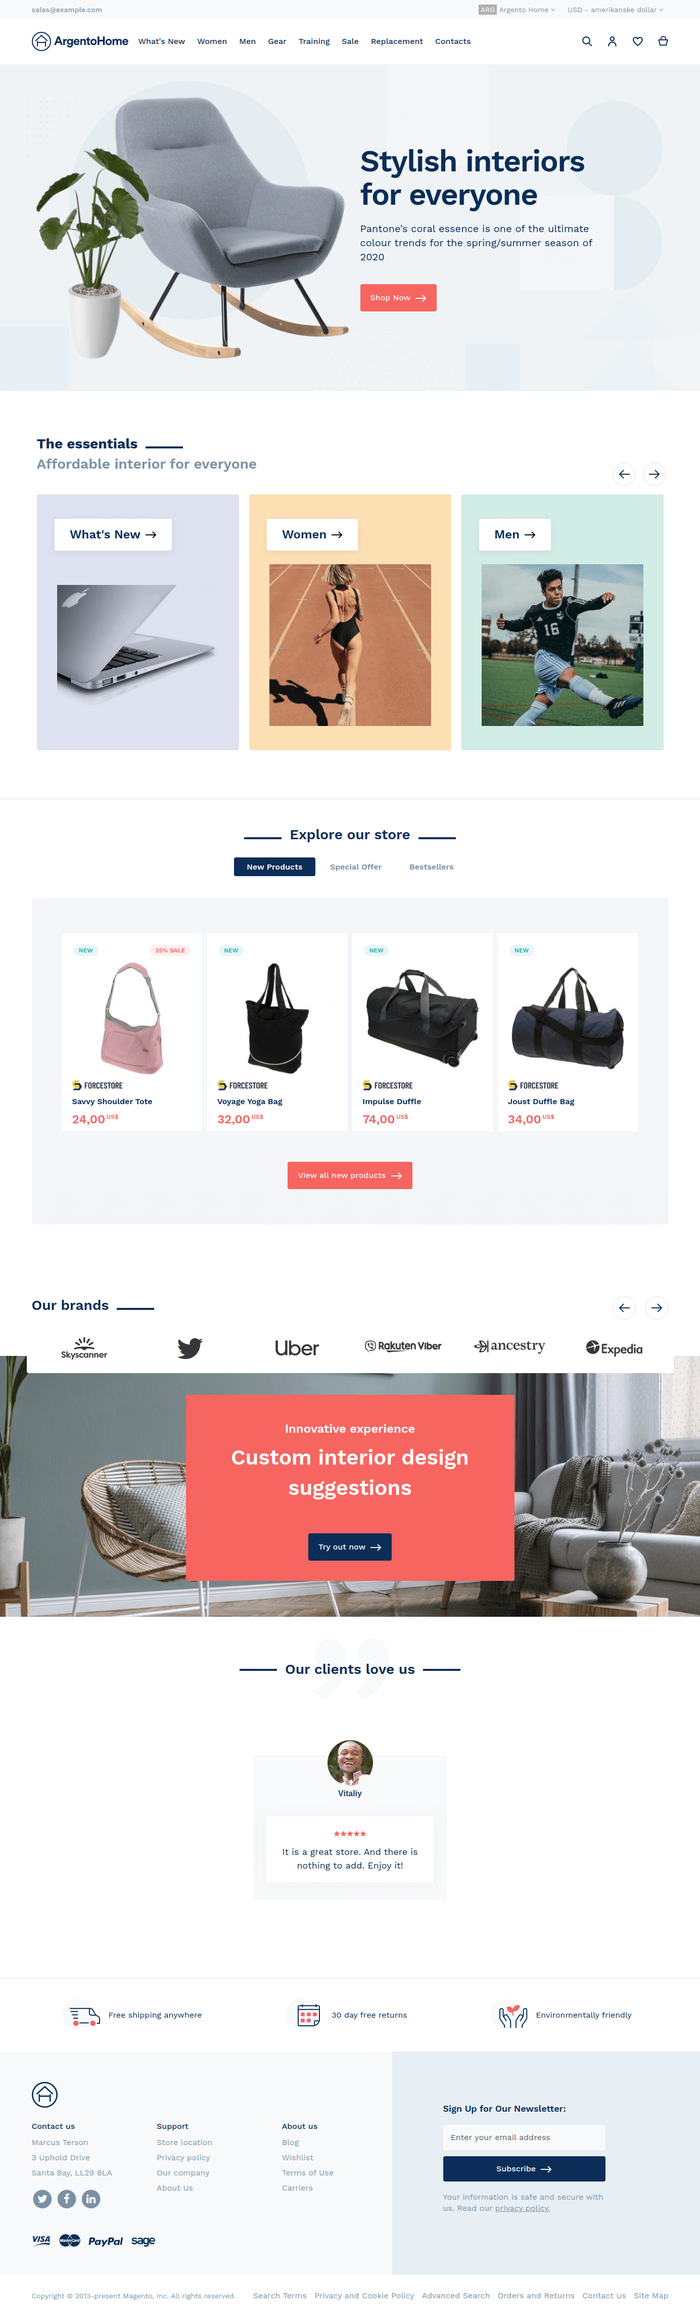
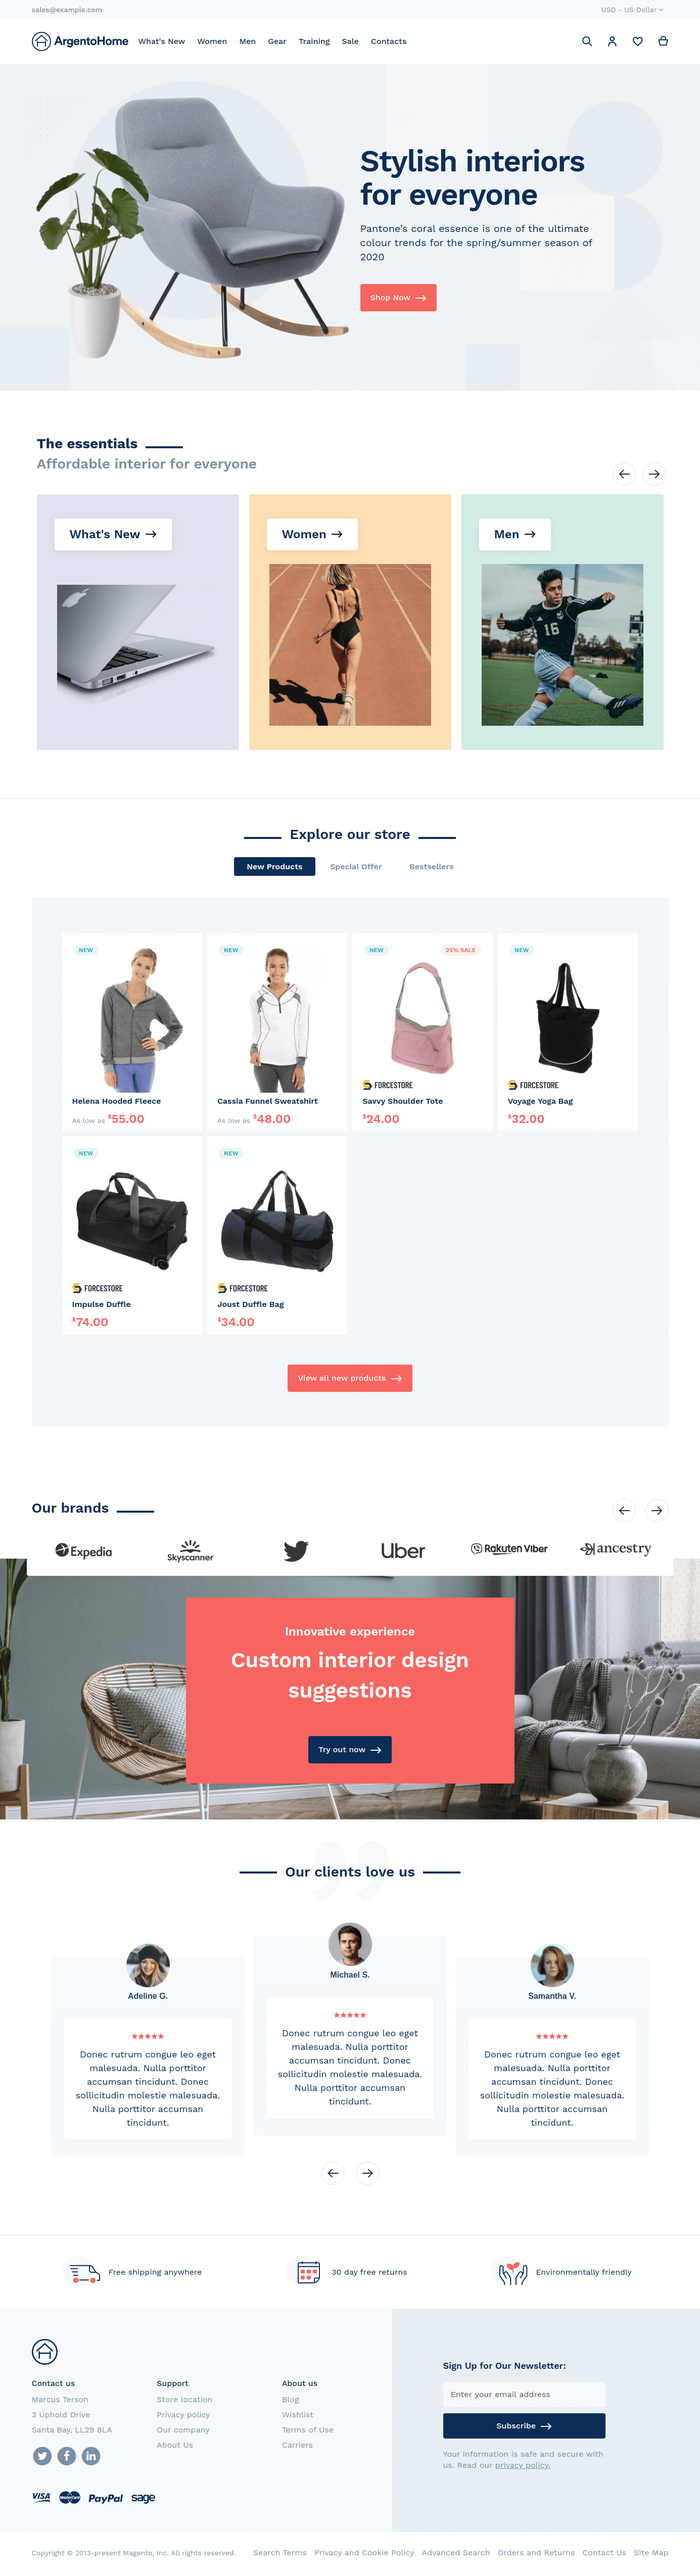
Argento Home - homepage docs

diff --git a/m2/argento/home/page-structure/homepage.md b/m2/argento/home/page-structure/homepage.md
@@ -1,0 +1,240 @@
+---
+layout: default
+title: Argento Home homepage content structure
+description: Argento Home homepage content structure
+category: Argento
+---
+
+# Homepage content
+{:.no_toc}
+
+Argento Home homepage is a standard Magento's CMS page. You can edit it at
+`Magento Admin > Content > Pages` page.
+
+Page title is `Argento Home`. Url - `home`.
+
+We strongly recommend to disable WYSIWYG editor before you start editing homepage content.
+
+Homepage uses a bunch of widgets. They can be widely customized to
+match various layout types and designs.
+
+> 1. Currently homepage build with jumbotrons. Similar approach we use in Argento Flat. Read [Jumbotron customization](/m2/argento/flat/jumbotrons/) article.
+> 2. You can structure elements with [Argento grid system](/m2/argento/customization/grid-system/) classes (col-md-8, col-md-4 etc) also.
+
+Let's split content into separate rows to simplify homepage structure
+understanding.
+
+* TOC
+{:toc}
+
+### Slider
+
+![Easyslide Slider](/images/m2/argento/home/home/slider.png)
+
+Top homepage slider is powered by [Easyslide](/m2/extensions/easyslider/). Get to know with this module and its interfaces so you could customize it in future.
+
+Slider identifier is `argento_home`.
+
+Piece of CMS Page content that adds slider:
+
+```html
+<div class="jumbotron jumbotron-image no-padding">
+    {% raw %}{{widget type="Swissup\EasySlide\Block\Slider" identifier="argento_home"}}{% endraw %}
+</div>
+```
+
+### The Essentials
+
+![The essentials](/images/m2/argento/home/home/the-essentials.png)
+
+Row with "The Essentials" links is a mix of HTML and [Easy Catalog Images](/m2/extensions/easycatalogimages/) widget. Widget shows first-level categories and their thumbnails. HTML wraps it with specific classes and adds title to the top.
+
+Piece of CMS Page content that adds this row:
+
+```html
+<div class="jumbotron block-categories">
+    <div class="container">
+        <div class="block-title">
+            <strong role="heading" aria-level="3">The essentials</strong>
+            <p class="subtitle">Affordable interior for everyone</p>
+        </div>
+        {% raw %}{{widget type="Swissup\Easycatalogimg\Block\Widget\SubcategoriesList" category_count="100" subcategory_count="0" column_count="3" show_image="1" image_width="320" image_height="320" template="Swissup_Easycatalogimg::list.phtml" hide_when_filter_is_used="0"}}{% endraw %}
+    </div>
+</div>
+```
+
+### Explore Our Store
+
+![Explore Our Store](/images/m2/argento/home/home/explore-our-store.png)
+
+This row shows four tabs:
+
+  - New Products;
+  - Special Offer;
+  - Bestsellers;
+  - Popular Products.
+
+It is powered by [EasyTabs](/m2/extensions/easytabs/). You can add/remove tabs, change tabs layout etc. Check EasyTabs docs to findout more.
+
+Piece of CMS Page content that adds tabs:
+
+```html
+<div class="jumbotron block-explore">
+    <div class="container">
+        <div class="block-title">
+            <strong role="heading" aria-level="3">Explore our store</strong>
+        </div>
+        {% raw %}{{widget type="Swissup\Easytabs\Block\WidgetTabs" filter_tabs="new.products,special.offer,bestsellers,popular" tabs_layout="collapsed" template="Swissup_Easytabs::tabs.phtml"}}{% endraw %}
+    </div>
+</div>
+```
+
+If you want to change text "Ready to Go" then modify text in `<div class="bg-text">...</div>`. Try to keep this phrase short so it fits into block.
+
+
+### Our Brands
+
+![Our Brands](/images/m2/argento/home/home/our-brands.png)
+
+This row is slider with brands your store offers or working with. It is regular HTML content presented as a slider with [Slick Carousel](m2/extensions/slick-carousel/).
+
+Piece of CMS Page content for this section:
+
+```html
+<div class="jumbotron block-brands">
+    <div class="container">
+        <div class="block block-carousel">
+            <div class="block-title">
+                <strong role="heading" aria-level="3">Our brands</strong>
+            </div>
+            <div class="block-content">
+                <div class="slick-slider" data-mage-init='{"slick": {"slidesToShow": 6, "slidesToScroll": 1, "dots": false, "autoplay": true, "swipeToSlide": true, "rows": 0, "lazyLoad": "ondemand", "responsive": [{"breakpoint": 768, "settings": {"slidesToShow": 4}}, {"breakpoint": 600, "settings": {"slidesToShow": 3}}, {"breakpoint": 480, "settings": {"slidesToShow": 2}}]}}'>
+                    <div><a href="#"><img data-lazy="{% raw %}{{view url='images/brands/ancestry.png'}}{% endraw %}" alt="" width="200" height="78"/></a></div>
+                    <div><a href="#"><img data-lazy="{% raw %}{{view url='images/brands/expedia.png'}}{% endraw %}" alt="" width="200" height="78"/></a></div>
+                    <div><a href="#"><img data-lazy="{% raw %}{{view url='images/brands/skyscnr.png'}}{% endraw %}" alt="" width="200" height="78"/></a></div>
+                    <div><a href="#"><img data-lazy="{% raw %}{{view url='images/brands/twtr.png'}}{% endraw %}" alt="" width="200" height="78"/></a></div>
+                    <div><a href="#"><img data-lazy="{% raw %}{{view url='images/brands/uber.png'}}{% endraw %}" alt="" width="200" height="78"/></a></div>
+                    <div><a href="#"><img data-lazy="{% raw %}{{view url='images/brands/viber.png'}}{% endraw %}" alt="" width="200" height="78"/></a></div>
+                    <div><a href="#"><img data-lazy="{% raw %}{{view url='images/brands/ancestry.png'}}{% endraw %}" alt="" width="200" height="78"/></a></div>
+                    <div><a href="#"><img data-lazy="{% raw %}{{view url='images/brands/expedia.png'}}{% endraw %}" alt="" width="200" height="78"/></a></div>
+                    <div><a href="#"><img data-lazy="{% raw %}{{view url='images/brands/skyscnr.png'}}{% endraw %}" alt="" width="200" height="78"/></a></div>
+                    <div><a href="#"><img data-lazy="{% raw %}{{view url='images/brands/twtr.png'}}{% endraw %}" alt="" width="200" height="78"/></a></div>
+                    <div><a href="#"><img data-lazy="{% raw %}{{view url='images/brands/uber.png'}}{% endraw %}" alt="" width="200" height="78"/></a></div>
+                    <div><a href="#"><img data-lazy="{% raw %}{{view url='images/brands/viber.png'}}{% endraw %}" alt="" width="200" height="78"/></a></div>
+                </div>
+            </div>
+        </div>
+    </div>
+</div>
+```
+
+### Block "Try Now"
+
+![Block Try Now](/images/m2/argento/home/home/try-now.png)
+
+This is pure HTML content. Show off your products, desing solutions or special bundles. Invite visitor to check some landing page.
+
+Piece of CMS Page content for "Try Now" block:
+
+```html
+<div class="jumbotron no-padding a-center block-try-now">
+    <div class="element background-divider a-center">
+        <img src="{{media url='wysiwyg/interior/home-interior.jpg'}}" alt="Interior Design" />
+        <div class="content">
+            <div class="block-title">
+                <p class="subtitle">Innovative experience</p>
+                <strong role="heading" aria-level="3">Custom interior design suggestions</strong>
+            </div>
+            <a href="{% raw %}{{store direct_url=''}}{% endraw %}" title="Try out now" class="action"><span>Try out now</span></a>
+        </div>
+      </div>
+</div>
+```
+
+### Our clients love us
+
+This row has slider with clients feedback about experience with your store. We used [Testimonials](/m2/extensions/testimonials/) widget to show it. Check Testimonials module docs to find out what else it can do.
+
+Piece of CMS Page content that adds clients feedback:
+
+```html
+<div class="jumbotron block-testimonials">
+    <div class="container">
+        {% raw %}{{widget type="Swissup\Testimonials\Block\Widgets\Slider" items_number="6" title="Our clients love us" slides_to_show="3" show_rating="1"}}{% endraw %}
+    </div>
+</div>
+```
+
+### Whole homepage code
+
+```html
+<div class="jumbotron jumbotron-image no-padding">
+    {% raw %}{{widget type="Swissup\EasySlide\Block\Slider" identifier="argento_home"}}{% endraw %}
+</div>
+<div class="jumbotron block-categories">
+    <div class="container">
+        <div class="block-title">
+            <strong role="heading" aria-level="3">The essentials</strong>
+            <p class="subtitle">Affordable interior for everyone</p>
+        </div>
+        {% raw %}{{widget type="Swissup\Easycatalogimg\Block\Widget\SubcategoriesList" category_count="100" subcategory_count="0" column_count="3" show_image="1" image_width="320" image_height="320" template="Swissup_Easycatalogimg::list.phtml" hide_when_filter_is_used="0"}}{% endraw %}
+    </div>
+</div>
+<div class="jumbotron block-explore">
+    <div class="container">
+        <div class="block-title">
+            <strong role="heading" aria-level="3">Explore our store</strong>
+        </div>
+        {% raw %}{{widget type="Swissup\Easytabs\Block\WidgetTabs" filter_tabs="new.products,special.offer,bestsellers,popular" tabs_layout="collapsed" template="Swissup_Easytabs::tabs.phtml"}}{% endraw %}
+    </div>
+</div>
+<div class="jumbotron block-brands">
+    <div class="container">
+        <div class="block block-carousel">
+            <div class="block-title">
+                <strong role="heading" aria-level="3">Our brands</strong>
+            </div>
+            <div class="block-content">
+                <div class="slick-slider" data-mage-init='{"slick": {"slidesToShow": 6, "slidesToScroll": 1, "dots": false, "autoplay": true, "swipeToSlide": true, "rows": 0, "lazyLoad": "ondemand", "responsive": [{"breakpoint": 768, "settings": {"slidesToShow": 4}}, {"breakpoint": 600, "settings": {"slidesToShow": 3}}, {"breakpoint": 480, "settings": {"slidesToShow": 2}}]}}'>
+                    <div><a href="#"><img data-lazy="{% raw %}{{view url='images/brands/ancestry.png'}}{% endraw %}" alt="" width="200" height="78"/></a></div>
+                    <div><a href="#"><img data-lazy="{% raw %}{{view url='images/brands/expedia.png'}}{% endraw %}" alt="" width="200" height="78"/></a></div>
+                    <div><a href="#"><img data-lazy="{% raw %}{{view url='images/brands/skyscnr.png'}}{% endraw %}" alt="" width="200" height="78"/></a></div>
+                    <div><a href="#"><img data-lazy="{% raw %}{{view url='images/brands/twtr.png'}}{% endraw %}" alt="" width="200" height="78"/></a></div>
+                    <div><a href="#"><img data-lazy="{% raw %}{{view url='images/brands/uber.png'}}{% endraw %}" alt="" width="200" height="78"/></a></div>
+                    <div><a href="#"><img data-lazy="{% raw %}{{view url='images/brands/viber.png'}}{% endraw %}" alt="" width="200" height="78"/></a></div>
+                    <div><a href="#"><img data-lazy="{% raw %}{{view url='images/brands/ancestry.png'}}{% endraw %}" alt="" width="200" height="78"/></a></div>
+                    <div><a href="#"><img data-lazy="{% raw %}{{view url='images/brands/expedia.png'}}{% endraw %}" alt="" width="200" height="78"/></a></div>
+                    <div><a href="#"><img data-lazy="{% raw %}{{view url='images/brands/skyscnr.png'}}{% endraw %}" alt="" width="200" height="78"/></a></div>
+                    <div><a href="#"><img data-lazy="{% raw %}{{view url='images/brands/twtr.png'}}{% endraw %}" alt="" width="200" height="78"/></a></div>
+                    <div><a href="#"><img data-lazy="{% raw %}{{view url='images/brands/uber.png'}}{% endraw %}" alt="" width="200" height="78"/></a></div>
+                    <div><a href="#"><img data-lazy="{% raw %}{{view url='images/brands/viber.png'}}{% endraw %}" alt="" width="200" height="78"/></a></div>
+                </div>
+            </div>
+        </div>
+    </div>
+</div>
+<div class="jumbotron no-padding a-center block-try-now">
+    <div class="element background-divider a-center">
+        <img src="{% raw %}{{media url='wysiwyg/interior/home-interior.jpg'}}{% endraw %}" alt="Interior Design" />
+        <div class="content">
+            <div class="block-title">
+                <p class="subtitle">Innovative experience</p>
+                <strong role="heading" aria-level="3">Custom interior design suggestions</strong>
+            </div>
+            <a href="{% raw %}{{store direct_url=''}}{% endraw %}" title="Try out now" class="action"><span>Try out now</span></a>
+        </div>
+      </div>
+</div>
+<div class="jumbotron block-testimonials">
+    <div class="container">
+        {% raw %}{{widget type="Swissup\Testimonials\Block\Widgets\Slider" items_number="6" title="Our clients love us" slides_to_show="3" show_rating="1"}}{% endraw %}
+    </div>
+</div>
+```
+
+##### Next up
+{:.no_toc}
+
+- [Small css customizations](/m2/argento/customization/custom-css/)
+- [Create Argento based custom theme](/m2/argento/customization/custom-theme/)
+- [Argento Home docs homepage](/m2/argento/home/)

diff --git a/m2/argento/home/page-structure/index.md b/m2/argento/home/page-structure/index.md
@@ -21,13 +21,12 @@ category: Argento
 
 #### [Homepage](homepage/)
 
- -  [Slider](homepage/#slider)
- -  [Hot Stuff](homepage/#hot-stuff)
- -  [‘Ready to Go’ categories](homepage/#ready-to-go-categories)
- -  [Bestsellers](homepage/#bestsellers)
- -  [New Collection](homepage/#new-collection)
- -  [Get There With Us](homepage/#get-there-with-us)
- -  [Brands](homepage/#brands)
+  - [Slider](homepage/#slider)
+  - [The Essentials](homepage/#the-essentials)
+  - [Explore Our Store](homepage/#explore-our-store)
+  - [Our Brands](homepage/#our-brands)
+  - [Block “Try Now”](homepage/#block-try-now)
+  - [Our clients love us](homepage/#our-clients-love-us)
 
 #### [Product page](product-page/)
 
